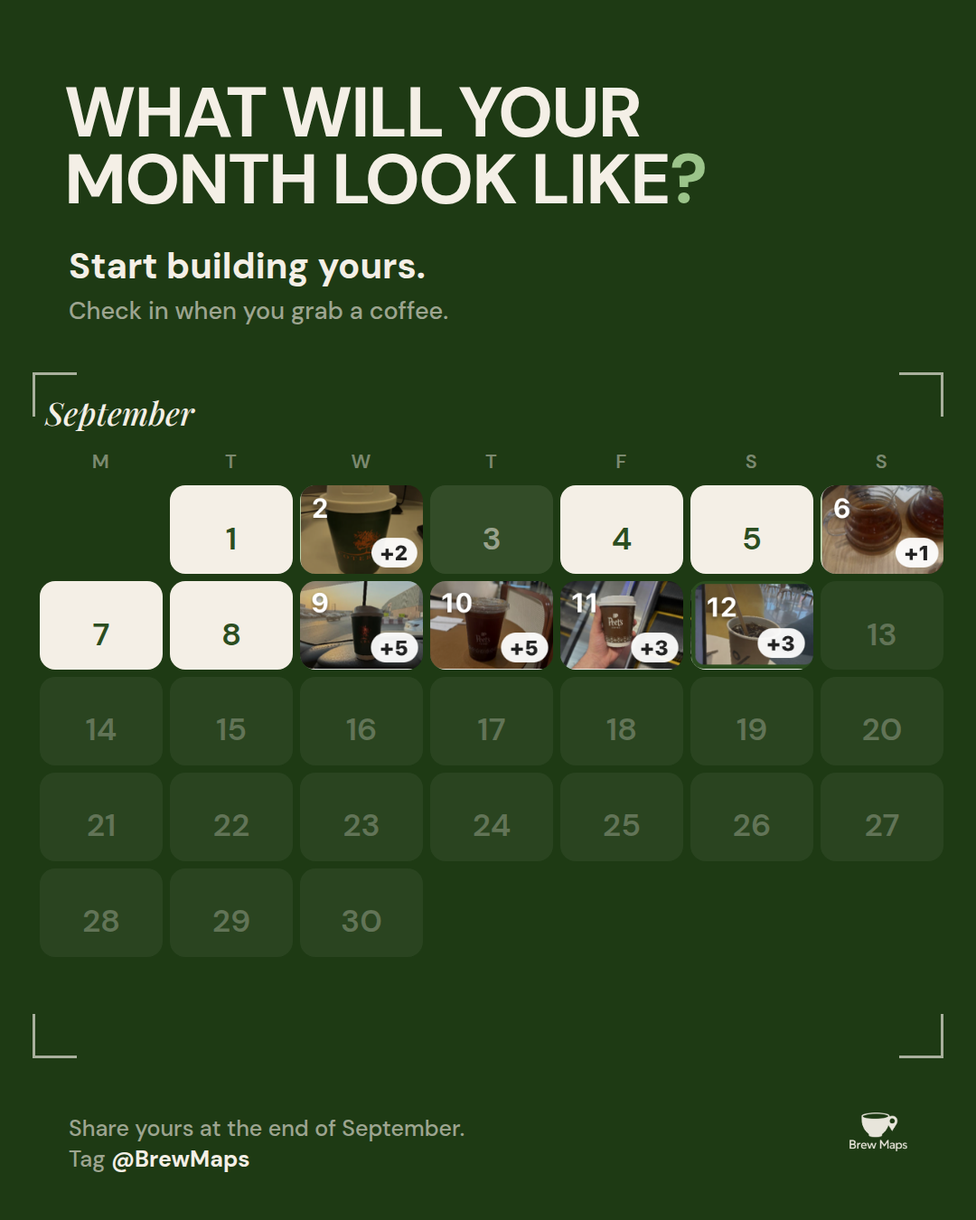
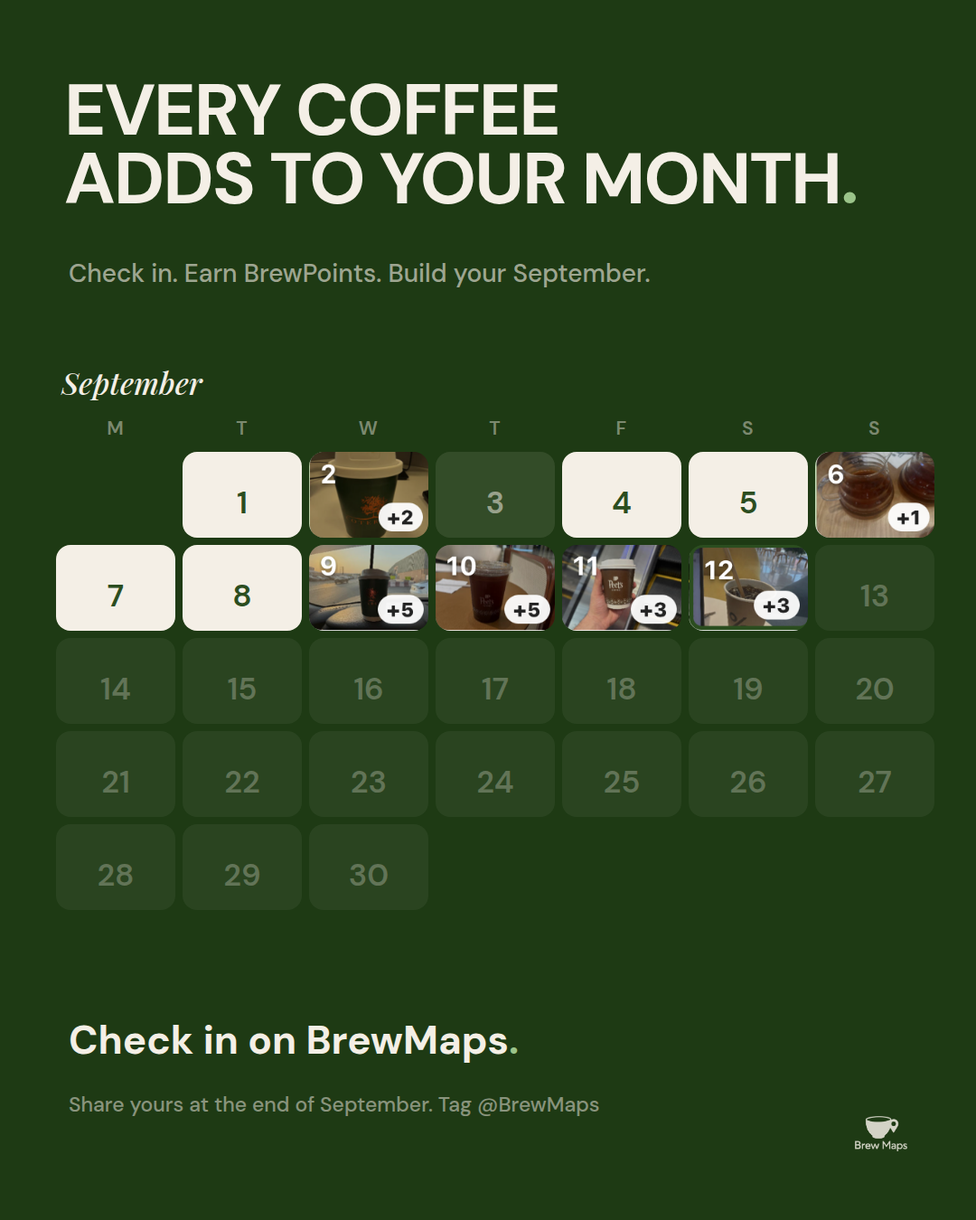
Rework Coffee Month for hook, hierarchy and reward payoff
Cover leads with the result as a three-scale cascade instead of a
title, photo demoted to a band. Earned slide simplified to one line.
Redeemed becomes a 3 REWARDS CLAIMED lockup so the payoff reads as
outcome rather than accounting. Month slide promotes 20 to hero with
the other stats as footnotes and photos entering as edge fragments.
Final slide leads with the behavioural loop and a single CTA.

Claude-Session: https://claude.ai/code/session_01UCKVHF8Bj15Neb29ir5cAN

diff --git a/marketing/instagram/2026-09-coffee-month/source/wrap-5.html b/marketing/instagram/2026-09-coffee-month/source/wrap-5.html
@@ -1,14 +1,13 @@
 <link rel="stylesheet" href="base.css"><style>body{background:var(--deep);color:var(--cream);}</style>
-<h1 class="h abs" style="left:71px;top:88px;font-size:78px;">What will your<br>month look like<span style="color:var(--mint)">?</span></h1>
-<div class="abs" style="left:76px;top:268px;font-size:40px;font-weight:700;color:var(--cream);">Start building yours.</div>
-<div class="abs" style="left:76px;top:326px;font-size:27px;font-weight:500;color:rgba(244,239,230,.6);">Check in when you grab a coffee.</div>
-<div class="abs" style="left:44px;top:432px;">
- <div class="serif" style="font-size:36px;font-style:italic;margin-left:6px;margin-bottom:16px;">September</div>
+<h1 class="h abs" style="left:71px;top:84px;font-size:80px;">Every coffee<br>adds to your month<span style="color:var(--mint)">.</span></h1>
+<div class="abs" style="left:76px;top:284px;font-size:28px;font-weight:500;color:rgba(244,239,230,.62);">Check in. Earn BrewPoints. Build your September.</div>
+<div class="abs" style="left:62px;top:400px;">
+ <div class="serif" style="font-size:34px;font-style:italic;margin-left:6px;margin-bottom:14px;">September</div>
  
 <style>
-.calw{--tile:136px;--gap:8px;}
+.calw{--tile:132px;--gap:8px;}
 .cal{display:grid;grid-template-columns:repeat(7,var(--tile));gap:var(--gap);}
-.cal .t{width:var(--tile);height:calc(var(--tile)*0.72);border-radius:17px;display:flex;align-items:flex-end;justify-content:center;padding-bottom:calc(var(--tile)*0.12);box-sizing:border-box;font-family:"DM Sans";font-weight:600;font-size:calc(var(--tile)*0.26);overflow:hidden;position:relative;}
+.cal .t{width:var(--tile);height:calc(var(--tile)*0.72);border-radius:16px;display:flex;align-items:flex-end;justify-content:center;padding-bottom:calc(var(--tile)*0.12);box-sizing:border-box;font-family:"DM Sans";font-weight:600;font-size:calc(var(--tile)*0.26);overflow:hidden;position:relative;}
 .cal .t.p{padding:0;display:block;}
 .cal .t.p img{width:100%;height:100%;object-fit:cover;display:block;}
 .wd{display:grid;grid-template-columns:repeat(7,var(--tile));gap:var(--gap);font-family:"DM Sans";font-weight:600;font-size:calc(var(--tile)*0.16);letter-spacing:0.06em;text-align:center;margin-bottom:calc(var(--gap)*1.5);}
@@ -20,9 +19,6 @@
 .wd{color:rgba(244,239,230,0.45);}
 </style><div class="calw"><div class="wd"><span>M</span><span>T</span><span>W</span><span>T</span><span>F</span><span>S</span><span>S</span></div><div class="cal"><div class="t e"></div><div class="t c"><span>1</span></div><div class="t p"><img src="src/cell-sep-2.png"></div><div class="t x"><span>3</span></div><div class="t c"><span>4</span></div><div class="t c"><span>5</span></div><div class="t p"><img src="src/cell-sep-6.png"></div><div class="t c"><span>7</span></div><div class="t c"><span>8</span></div><div class="t p"><img src="src/cell-sep-9.png"></div><div class="t p"><img src="src/cell-sep-10.png"></div><div class="t p"><img src="src/cell-sep-11.png"></div><div class="t p"><img src="src/cell-sep-12.png"></div><div class="t f"><span>13</span></div><div class="t f"><span>14</span></div><div class="t f"><span>15</span></div><div class="t f"><span>16</span></div><div class="t f"><span>17</span></div><div class="t f"><span>18</span></div><div class="t f"><span>19</span></div><div class="t f"><span>20</span></div><div class="t f"><span>21</span></div><div class="t f"><span>22</span></div><div class="t f"><span>23</span></div><div class="t f"><span>24</span></div><div class="t f"><span>25</span></div><div class="t f"><span>26</span></div><div class="t f"><span>27</span></div><div class="t f"><span>28</span></div><div class="t f"><span>29</span></div><div class="t f"><span>30</span></div></div></div>
 </div>
-<div class="abs" style="left:36px;top:412px;width:46px;height:46px;border-left:3px solid rgba(244,239,230,.65);border-top:3px solid rgba(244,239,230,.65);"></div>
-<div class="abs" style="right:36px;top:412px;width:46px;height:46px;border-right:3px solid rgba(244,239,230,.65);border-top:3px solid rgba(244,239,230,.65);"></div>
-<div class="abs" style="left:36px;top:1122px;width:46px;height:46px;border-left:3px solid rgba(244,239,230,.65);border-bottom:3px solid rgba(244,239,230,.65);"></div>
-<div class="abs" style="right:36px;top:1122px;width:46px;height:46px;border-right:3px solid rgba(244,239,230,.65);border-bottom:3px solid rgba(244,239,230,.65);"></div>
-<div class="abs" style="left:76px;top:1232px;font-size:25px;font-weight:500;color:rgba(244,239,230,.6);line-height:1.35;">Share yours at the end of September.<br>Tag <b style="color:var(--cream);font-weight:700;">@BrewMaps</b></div>
-<img class="abs" src="src/logo-cream.png" style="right:76px;bottom:76px;width:64px;opacity:.95;">
+<div class="abs" style="left:76px;top:1122px;font-size:44px;font-weight:700;">Check in on BrewMaps<span style="color:var(--mint)">.</span></div>
+<div class="abs" style="left:76px;top:1206px;font-size:23px;font-weight:500;color:rgba(244,239,230,.5);line-height:1.4;">Share yours at the end of September. Tag @BrewMaps</div>
+<img class="abs" src="src/logo-cream.png" style="right:76px;bottom:76px;width:58px;opacity:.85;">

diff --git a/marketing/instagram/2026-09-coffee-month/source/wrap-4.html b/marketing/instagram/2026-09-coffee-month/source/wrap-4.html
@@ -1,10 +1,9 @@
 <link rel="stylesheet" href="base.css"><style>body{background:var(--sand);color:var(--green);}</style>
-<div class="abs num" style="left:66px;top:96px;font-size:312px;">6</div>
-<div class="ph" style="left:604px;top:132px;width:400px;height:286px;"><img src="src/photo-9.png" style="object-position:center;"></div>
-<div class="abs kick" style="left:76px;top:404px;font-size:26px;opacity:.8;">cups posted</div>
-<div class="ph" style="left:76px;top:556px;width:330px;height:236px;"><img src="src/photo-2.png" style="object-position:center;"></div>
-<div class="abs num" style="left:436px;top:472px;font-size:436px;">20</div>
-<div class="abs kick" style="left:442px;top:876px;font-size:26px;opacity:.8;">caf&eacute;s</div>
-<div class="abs num" style="left:66px;top:922px;font-size:340px;">5</div>
-<div class="abs kick" style="left:284px;top:1118px;font-size:26px;opacity:.8;line-height:1.3;">coffee-free<br>days</div>
-<div class="ph" style="left:604px;top:984px;width:400px;height:286px;"><img src="src/photo-12.png" style="object-position:center;"></div>
+<h1 class="h abs" style="left:71px;top:88px;font-size:84px;">Your month,<br>in coffee<span style="color:#7FA86B">.</span></h1>
+<div class="frag" style="left:808px;top:66px;width:272px;height:336px;border-radius:16px;"><img src="src/photo-9.png" style="width:470px;"></div>
+<div class="ph" style="left:596px;top:470px;width:404px;height:289px;border-radius:16px;"><img src="src/photo-2.png"></div>
+<div class="abs num" style="left:62px;top:404px;font-size:400px;">20</div>
+<div class="abs kick" style="left:76px;top:786px;font-size:28px;opacity:.8;">cafés explored</div>
+<div class="frag" style="left:0px;top:940px;width:242px;height:336px;border-radius:16px;"><img src="src/photo-12.png" style="width:470px;"></div>
+<div class="rule abs" style="left:540px;top:990px;width:464px;background:rgba(43,77,31,.2);"></div>
+<div class="abs" style="left:540px;top:1034px;font-size:33px;font-weight:600;opacity:.85;line-height:1.7;">6 cups posted<br>5 coffee-free days</div>

diff --git a/marketing/instagram/2026-09-coffee-month/source/wrap-1.html b/marketing/instagram/2026-09-coffee-month/source/wrap-1.html
@@ -1,7 +1,15 @@
 <link rel="stylesheet" href="base.css"><style>body{background:var(--night);color:var(--cream);}</style>
-<div class="ph" style="left:0px;top:0px;width:1080px;height:800px;"><img src="src/hero-a.png" style="object-position:center 62%;"></div>
-<div class="abs" style="left:0;top:560px;width:1080px;height:240px;background:linear-gradient(to bottom,rgba(14,31,10,0),rgba(14,31,10,.45));"></div>
-<div class="abs kick" style="left:76px;top:874px;font-size:25px;color:var(--mint);">September, so far</div>
-<img class="abs" src="src/logo-cream.png" style="right:76px;top:856px;width:64px;opacity:.95;">
-<div class="rule abs" style="left:76px;top:936px;width:928px;background:rgba(244,239,230,.22);"></div>
-<h1 class="h abs" style="left:71px;top:998px;font-size:118px;">Your<br>coffee month<span style="color:var(--mint)">.</span></h1>
+<div class="abs kick" style="left:76px;top:84px;font-size:23px;color:var(--mint);">Your coffee month</div>
+<div class="abs rowb" style="left:62px;top:132px;gap:34px;">
+  <span class="num" style="font-size:400px;">20</span>
+  <span class="h" style="font-size:78px;">Cafés<span style="color:var(--mint)">.</span></span>
+</div>
+<div class="abs rowb" style="left:246px;top:498px;gap:30px;">
+  <span class="num" style="font-size:262px;">340</span>
+  <span class="h" style="font-size:60px;">Points<span style="color:var(--mint)">.</span></span>
+</div>
+<h1 class="h abs" style="left:70px;top:756px;font-size:128px;">One month<span style="color:var(--mint)">.</span></h1>
+<div class="rule abs" style="left:76px;top:918px;width:928px;background:rgba(244,239,230,.22);"></div>
+<div class="abs" style="left:76px;top:952px;font-size:29px;font-weight:500;color:rgba(244,239,230,.66);">This is your September on BrewMaps.</div>
+<div class="ph" style="left:0px;top:1046px;width:1080px;height:304px;"><img src="src/hero-a.png" style="object-position:center 58%;"></div>
+<img class="abs" src="src/logo-cream.png" style="right:76px;top:76px;width:58px;opacity:.85;">

diff --git a/marketing/instagram/2026-09-coffee-month/source/wrap-3.html b/marketing/instagram/2026-09-coffee-month/source/wrap-3.html
@@ -1,5 +1,9 @@
 <link rel="stylesheet" href="base.css"><style>body{background:var(--cream);color:var(--green);}</style>
-<div class="abs kick" style="left:76px;top:250px;font-size:27px;opacity:.62;">And you redeemed</div>
-<div class="abs num" style="left:0;top:348px;width:1080px;text-align:center;font-size:556px;">200</div>
-<h1 class="h abs" style="left:71px;top:912px;font-size:104px;">BrewPoints<span style="color:#7FA86B">.</span></h1>
-<div class="abs" style="left:76px;top:1082px;font-size:29px;font-weight:500;opacity:.68;">Spent across three cafés this month.</div>
+<div class="abs kick" style="left:76px;top:206px;font-size:27px;opacity:.6;">And you claimed</div>
+<div class="abs rowb" style="left:64px;top:292px;gap:34px;">
+  <span class="num" style="font-size:330px;">3</span>
+  <span class="h" style="font-size:142px;">Rewards</span>
+</div>
+<h1 class="h abs" style="left:70px;top:582px;font-size:142px;">Claimed<span style="color:#7FA86B">.</span></h1>
+<div class="rule abs" style="left:76px;top:838px;width:928px;background:rgba(43,77,31,.2);"></div>
+<div class="abs" style="left:76px;top:884px;font-size:31px;font-weight:500;opacity:.75;line-height:1.45;"><b style="font-weight:700;opacity:1;">200 BrewPoints</b> redeemed<br>across three cafés.</div>

diff --git a/marketing/instagram/2026-09-coffee-month/source/wrap-2.html b/marketing/instagram/2026-09-coffee-month/source/wrap-2.html
@@ -1,6 +1,6 @@
 <link rel="stylesheet" href="base.css"><style>body{background:var(--night);color:var(--cream);}</style>
 <div class="abs" style="left:-360px;top:-300px;width:1820px;height:1700px;border-radius:50%;background:radial-gradient(circle,rgba(155,196,138,.26) 0%,rgba(155,196,138,.07) 44%,rgba(14,31,10,0) 70%);"></div>
-<div class="abs kick" style="left:76px;top:250px;font-size:27px;color:var(--mint);">And you earned</div>
+<div class="abs kick" style="left:76px;top:250px;font-size:27px;color:var(--mint);">You earned</div>
 <div class="abs num" style="left:0;top:348px;width:1080px;text-align:center;font-size:556px;">340</div>
 <h1 class="h abs" style="left:71px;top:912px;font-size:104px;">BrewPoints<span style="color:var(--mint)">.</span></h1>
-<div class="abs" style="left:76px;top:1082px;font-size:29px;font-weight:500;color:rgba(244,239,230,.62);">Earned through your BrewMaps check-ins.</div>
+<div class="abs" style="left:76px;top:1082px;font-size:34px;font-weight:600;color:rgba(244,239,230,.72);">Just by checking in.</div>

diff --git a/marketing/instagram/2026-09-coffee-month/source/base.css b/marketing/instagram/2026-09-coffee-month/source/base.css
@@ -15,3 +15,6 @@ body{width:1080px;height:1350px;position:relative;overflow:hidden;font-family:"D
 .ph{position:absolute;overflow:hidden;}
 .ph img{width:100%;height:100%;object-fit:cover;display:block;}
 .rule{position:absolute;height:1px;}
+.rowb{display:flex;align-items:baseline;}
+.frag{position:absolute;overflow:hidden;}
+.frag img{display:block;height:auto;}

diff --git a/marketing/instagram/2026-09-coffee-month/source/build_final.py b/marketing/instagram/2026-09-coffee-month/source/build_final.py
@@ -2,61 +2,79 @@ from data import *
 from cal import calendar
 H='<link rel="stylesheet" href="base.css">'
 M=76
+AR=123/172.0
+LC=f'<img class="abs" src="src/logo-cream.png" style="right:{M}px;top:{M}px;width:58px;opacity:.85;">'
 def ph(x,y,w,h,name,pos='center'):
     return (f'<div class="ph" style="left:{x}px;top:{y}px;width:{w}px;height:{h}px;">'
             f'<img src="src/{name}.png" style="object-position:{pos};"></div>')
+def frag(x,y,vis,full,i,r=16):
+    """A check-in photo entering from an edge. Only the left `vis` of a `full`-wide
+    tile shows, so the +N pill never gets sliced mid-shape."""
+    h=round(full*AR)
+    return (f'<div class="frag" style="left:{x}px;top:{y}px;width:{vis}px;height:{h}px;border-radius:{r}px;">'
+            f'<img src="src/photo-{i}.png" style="width:{full}px;"></div>')
+def tile(x,y,w,i,r=16):
+    return (f'<div class="ph" style="left:{x}px;top:{y}px;width:{w}px;height:{round(w*AR)}px;border-radius:{r}px;">'
+            f'<img src="src/photo-{i}.png"></div>')
 
-# ── 1  COVER — coffee moment above, dark green below, masthead kicker + logo
+# ── 1  HOOK — a descending cascade of real numbers, photo demoted to a band
 S1=f'''{H}<style>body{{background:var(--night);color:var(--cream);}}</style>
-{ph(0,0,1080,800,'hero-a','center 62%')}
-<div class="abs" style="left:0;top:560px;width:1080px;height:240px;background:linear-gradient(to bottom,rgba(14,31,10,0),rgba(14,31,10,.45));"></div>
-<div class="abs kick" style="left:{M}px;top:874px;font-size:25px;color:var(--mint);">{MONTH}, so far</div>
-<img class="abs" src="src/logo-cream.png" style="right:{M}px;top:856px;width:64px;opacity:.95;">
-<div class="rule abs" style="left:{M}px;top:936px;width:{1080-2*M}px;background:rgba(244,239,230,.22);"></div>
-<h1 class="h abs" style="left:{M-5}px;top:998px;font-size:118px;">Your<br>coffee month<span style="color:var(--mint)">.</span></h1>'''
+<div class="abs kick" style="left:{M}px;top:84px;font-size:23px;color:var(--mint);">Your coffee month</div>
+<div class="abs rowb" style="left:{M-14}px;top:132px;gap:34px;">
+  <span class="num" style="font-size:400px;">{CAFES}</span>
+  <span class="h" style="font-size:78px;">Cafés<span style="color:var(--mint)">.</span></span>
+</div>
+<div class="abs rowb" style="left:246px;top:498px;gap:30px;">
+  <span class="num" style="font-size:262px;">{POINTS_PLACEHOLDER}</span>
+  <span class="h" style="font-size:60px;">Points<span style="color:var(--mint)">.</span></span>
+</div>
+<h1 class="h abs" style="left:{M-6}px;top:756px;font-size:128px;">One month<span style="color:var(--mint)">.</span></h1>
+<div class="rule abs" style="left:{M}px;top:918px;width:{1080-2*M}px;background:rgba(244,239,230,.22);"></div>
+<div class="abs" style="left:{M}px;top:952px;font-size:29px;font-weight:500;color:rgba(244,239,230,.66);">This is your {MONTH} on BrewMaps.</div>
+{ph(0,1046,1080,304,'hero-a','center 58%')}
+{LC}'''
 
-# ── 2  REWARD — the number owns the canvas
+# ── 2  EARNED — one number, one reveal
 S2=f'''{H}<style>body{{background:var(--night);color:var(--cream);}}</style>
 <div class="abs" style="left:-360px;top:-300px;width:1820px;height:1700px;border-radius:50%;background:radial-gradient(circle,rgba(155,196,138,.26) 0%,rgba(155,196,138,.07) 44%,rgba(14,31,10,0) 70%);"></div>
-<div class="abs kick" style="left:{M}px;top:250px;font-size:27px;color:var(--mint);">And you earned</div>
+<div class="abs kick" style="left:{M}px;top:250px;font-size:27px;color:var(--mint);">You earned</div>
 <div class="abs num" style="left:0;top:348px;width:1080px;text-align:center;font-size:556px;">{POINTS_PLACEHOLDER}</div>
 <h1 class="h abs" style="left:{M-5}px;top:912px;font-size:104px;">BrewPoints<span style="color:var(--mint)">.</span></h1>
-<div class="abs" style="left:{M}px;top:1082px;font-size:29px;font-weight:500;color:rgba(244,239,230,.62);">Earned through your BrewMaps check-ins.</div>'''
+<div class="abs" style="left:{M}px;top:1082px;font-size:34px;font-weight:600;color:rgba(244,239,230,.72);">Just by checking in.</div>'''
 
-# ── 3  REDEEMED — the inverse of slide 2: green on cream
+# ── 3  CLAIMED — a word lockup, not a second giant numeral
 S3=f'''{H}<style>body{{background:var(--cream);color:var(--green);}}</style>
-<div class="abs kick" style="left:{M}px;top:250px;font-size:27px;opacity:.62;">And you redeemed</div>
-<div class="abs num" style="left:0;top:348px;width:1080px;text-align:center;font-size:556px;">{REDEEMED_PLACEHOLDER}</div>
-<h1 class="h abs" style="left:{M-5}px;top:912px;font-size:104px;">BrewPoints<span style="color:#7FA86B">.</span></h1>
-<div class="abs" style="left:{M}px;top:1082px;font-size:29px;font-weight:500;opacity:.68;">Spent across {REDEEMED_CAFES} cafés this month.</div>'''
-
-# ── 4  DATA AS DESIGN — cream, asymmetric, check-in photos bled to the edges
-S4=f'''{H}<style>body{{background:var(--sand);color:var(--green);}}</style>
-<div class="abs num" style="left:{M-10}px;top:96px;font-size:312px;">{CUPS}</div>
-{ph(604,132,400,286,'photo-9')}
-<div class="abs kick" style="left:{M}px;top:404px;font-size:26px;opacity:.8;">cups posted</div>
-{ph(M,556,330,236,'photo-2')}
-<div class="abs num" style="left:436px;top:472px;font-size:436px;">{CAFES}</div>
-<div class="abs kick" style="left:442px;top:876px;font-size:26px;opacity:.8;">caf&eacute;s</div>
-<div class="abs num" style="left:{M-10}px;top:922px;font-size:340px;">{FREE_DAYS}</div>
-<div class="abs kick" style="left:284px;top:1118px;font-size:26px;opacity:.8;line-height:1.3;">coffee-free<br>days</div>
-{ph(604,984,400,286,'photo-12')}'''
-
-# ── 5  SHARE — headline, CTA and calendar as one block
-TILE=136
-S5=f'''{H}<style>body{{background:var(--deep);color:var(--cream);}}</style>
-<h1 class="h abs" style="left:{M-5}px;top:88px;font-size:78px;">What will your<br>month look like<span style="color:var(--mint)">?</span></h1>
-<div class="abs" style="left:{M}px;top:268px;font-size:40px;font-weight:700;color:var(--cream);">Start building yours.</div>
-<div class="abs" style="left:{M}px;top:326px;font-size:27px;font-weight:500;color:rgba(244,239,230,.6);">Check in when you grab a coffee.</div>
-<div class="abs" style="left:44px;top:432px;">
- <div class="serif" style="font-size:36px;font-style:italic;margin-left:6px;margin-bottom:16px;">{MONTH}</div>
- {calendar('dark',tile=TILE,gap=8,rows=5,radius=17)}
+<div class="abs kick" style="left:{M}px;top:206px;font-size:27px;opacity:.6;">And you claimed</div>
+<div class="abs rowb" style="left:{M-12}px;top:292px;gap:34px;">
+  <span class="num" style="font-size:330px;">{REDEEMED_CAFES_N}</span>
+  <span class="h" style="font-size:142px;">Rewards</span>
 </div>
-<div class="abs" style="left:36px;top:412px;width:46px;height:46px;border-left:3px solid rgba(244,239,230,.65);border-top:3px solid rgba(244,239,230,.65);"></div>
-<div class="abs" style="right:36px;top:412px;width:46px;height:46px;border-right:3px solid rgba(244,239,230,.65);border-top:3px solid rgba(244,239,230,.65);"></div>
-<div class="abs" style="left:36px;top:1122px;width:46px;height:46px;border-left:3px solid rgba(244,239,230,.65);border-bottom:3px solid rgba(244,239,230,.65);"></div>
-<div class="abs" style="right:36px;top:1122px;width:46px;height:46px;border-right:3px solid rgba(244,239,230,.65);border-bottom:3px solid rgba(244,239,230,.65);"></div>
-<div class="abs" style="left:{M}px;top:1232px;font-size:25px;font-weight:500;color:rgba(244,239,230,.6);line-height:1.35;">Share yours at the end of September.<br>Tag <b style="color:var(--cream);font-weight:700;">@BrewMaps</b></div>
-<img class="abs" src="src/logo-cream.png" style="right:{M}px;bottom:{M}px;width:64px;opacity:.95;">'''
+<h1 class="h abs" style="left:{M-6}px;top:582px;font-size:142px;">Claimed<span style="color:#7FA86B">.</span></h1>
+<div class="rule abs" style="left:{M}px;top:838px;width:{1080-2*M}px;background:rgba(43,77,31,.2);"></div>
+<div class="abs" style="left:{M}px;top:884px;font-size:31px;font-weight:500;opacity:.75;line-height:1.45;"><b style="font-weight:700;opacity:1;">{REDEEMED_PLACEHOLDER} BrewPoints</b> redeemed<br>across {REDEEMED_CAFES} cafés.</div>'''
+
+# ── 4  THE MONTH — one hero stat, two footnotes, photos as memories
+S4=f'''{H}<style>body{{background:var(--sand);color:var(--green);}}</style>
+<h1 class="h abs" style="left:{M-5}px;top:88px;font-size:84px;">Your month,<br>in coffee<span style="color:#7FA86B">.</span></h1>
+{frag(808,66,272,470,9)}
+{tile(596,470,404,2)}
+<div class="abs num" style="left:{M-14}px;top:404px;font-size:400px;">{CAFES}</div>
+<div class="abs kick" style="left:{M}px;top:786px;font-size:28px;opacity:.8;">cafés explored</div>
+{frag(0,940,242,470,12)}
+<div class="rule abs" style="left:540px;top:990px;width:{1080-540-M}px;background:rgba(43,77,31,.2);"></div>
+<div class="abs" style="left:540px;top:1034px;font-size:33px;font-weight:600;opacity:.85;line-height:1.7;">{CUPS} cups posted<br>{FREE_DAYS} coffee-free days</div>'''
+
+# ── 5  THE LOOP — calendar as hero, one CTA
+TILE=132
+S5=f'''{H}<style>body{{background:var(--deep);color:var(--cream);}}</style>
+<h1 class="h abs" style="left:{M-5}px;top:84px;font-size:80px;">Every coffee<br>adds to your month<span style="color:var(--mint)">.</span></h1>
+<div class="abs" style="left:{M}px;top:284px;font-size:28px;font-weight:500;color:rgba(244,239,230,.62);">Check in. Earn BrewPoints. Build your {MONTH}.</div>
+<div class="abs" style="left:62px;top:400px;">
+ <div class="serif" style="font-size:34px;font-style:italic;margin-left:6px;margin-bottom:14px;">{MONTH}</div>
+ {calendar('dark',tile=TILE,gap=8,rows=5,radius=16)}
+</div>
+<div class="abs" style="left:{M}px;top:1122px;font-size:44px;font-weight:700;">Check in on BrewMaps<span style="color:var(--mint)">.</span></div>
+<div class="abs" style="left:{M}px;top:1206px;font-size:23px;font-weight:500;color:rgba(244,239,230,.5);line-height:1.4;">Share yours at the end of {MONTH}. Tag @BrewMaps</div>
+<img class="abs" src="src/logo-cream.png" style="right:{M}px;bottom:{M}px;width:58px;opacity:.85;">'''
 for n,c in [('wrap-1',S1),('wrap-2',S2),('wrap-3',S3),('wrap-4',S4),('wrap-5',S5)]:
     open(n+'.html','w').write(c)

diff --git a/marketing/instagram/2026-09-coffee-month/source/data.py b/marketing/instagram/2026-09-coffee-month/source/data.py
@@ -4,4 +4,5 @@ CUPS, CAFES, FREE_DAYS, MONTH = 6, 20, 5, "September"
 POINTS_PLACEHOLDER = 340      # earned
 REDEEMED_PLACEHOLDER = 200    # redeemed
 REDEEMED_CAFES = "three"      # cafés redeemed at
+REDEEMED_CAFES_N = 3          # same figure as a numeral
 PHOTOS = [2,6,9,10,11,12]

diff --git a/marketing/instagram/2026-09-coffee-month/CAPTION.md b/marketing/instagram/2026-09-coffee-month/CAPTION.md
@@ -1,7 +1,7 @@
 # Your Coffee Month — BrewMaps Monthly, September 2026
 
 Five slides, 1080 × 1350. A recurring monthly format: rebuild from a new Calendar screenshot each month.
-Order is deliberate — EMOTION → EARNED → REDEEMED → DETAIL → CTA.
+Order is deliberate — RESULT → EARNED → CLAIMED → THE MONTH → THE LOOP.
 
 ## ⚠ Before posting
 
@@ -31,9 +31,11 @@ Logo appears on two slides of four, never as a watermark.
 
 Your coffee month.
 
-6 cups posted. 20 cafés. 5 days without one. 340 BrewPoints earned, 200 already spent.
+20 cafés. 340 BrewPoints. One month.
 
-Every check-in lands on your calendar and earns BrewPoints. Spend them back at the cafés you're already going to. At the end of the month you get a picture of how you actually drank coffee.
+That is one person's September on BrewMaps. 6 cups posted, 5 coffee-free days, and 3 rewards claimed with 200 of those points.
+
+Every check-in lands on your calendar and earns BrewPoints. Check in when you grab a coffee and your month builds itself.
 
 Start building yours — check in when you grab a coffee. Share yours at the end of September and tag @BrewMaps. We'll repost our favourites.
 
@@ -47,10 +49,12 @@ Four slides. A café table with drinks above the headline "Your coffee month". A
 
 ## Slide roles
 
-| # | Role | Treatment |
+| # | Role | Hierarchy |
 |---|---|---|
-| 1 | Editorial cover | Cropped coffee moment above, dark green below. Kicker and logo form a masthead over a rule |
-| 2 | Earned | Night green, cream numeral. 340 fills the canvas width with nothing competing |
-| 3 | Redeemed | The exact inverse — forest green numeral on cream. Same grid, same type sizes, flipped palette, so the two read as one pair |
-| 4 | Data as design | Warm sand. Three numerals at three scales, asymmetric, complete check-in tiles on a locked grid |
-| 5 | Share and action | Deep green. Headline, CTA and calendar read as one block inside screenshot marks |
+| 1 | Stop-scroll hook | Three descending scales: 20 at 400px, 340 at 262px indented right, ONE MONTH at 128px. Photo demoted to a bottom band |
+| 2 | Earned | One number. 340 centred and full width, nothing competing |
+| 3 | Claimed | A typographic lockup, not a numeral: 3 REWARDS / CLAIMED. 200 carried as inline emphasis below |
+| 4 | The month | 20 is the hero; cups posted and coffee-free days drop to a footnote pair. Check-in photos enter as edge fragments |
+| 5 | The loop | Calendar is the hero. One CTA, social line secondary |
+
+Fragments on slide 4 show under 55% of each tile so the +N pill is never sliced mid-shape.
